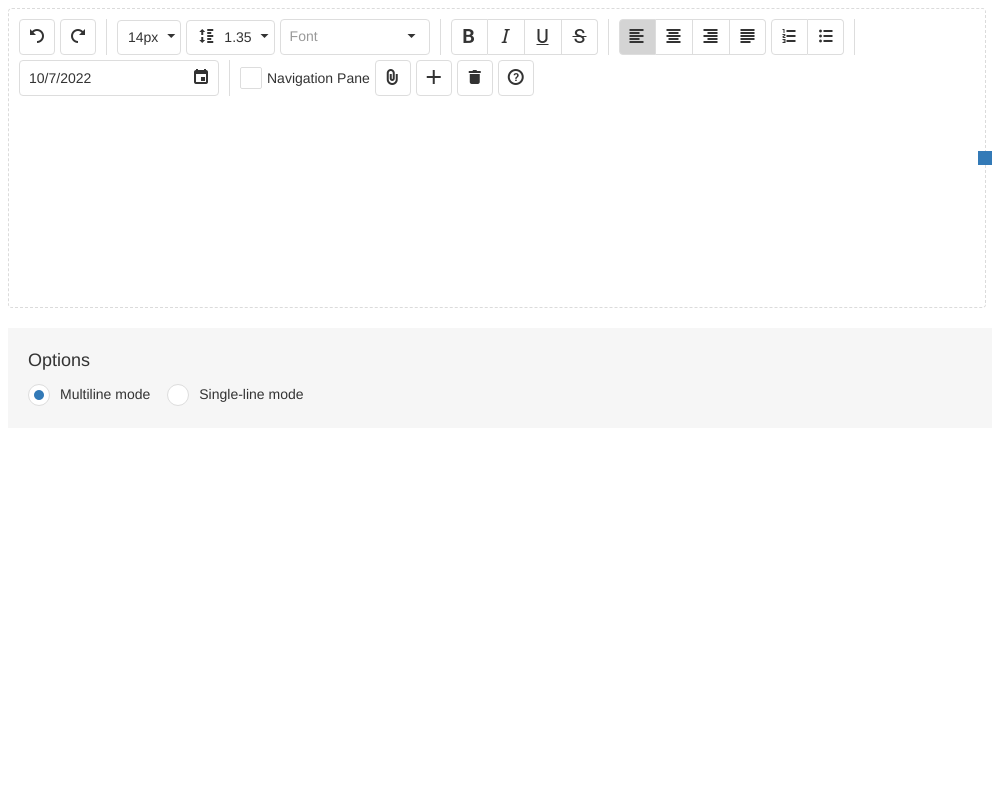
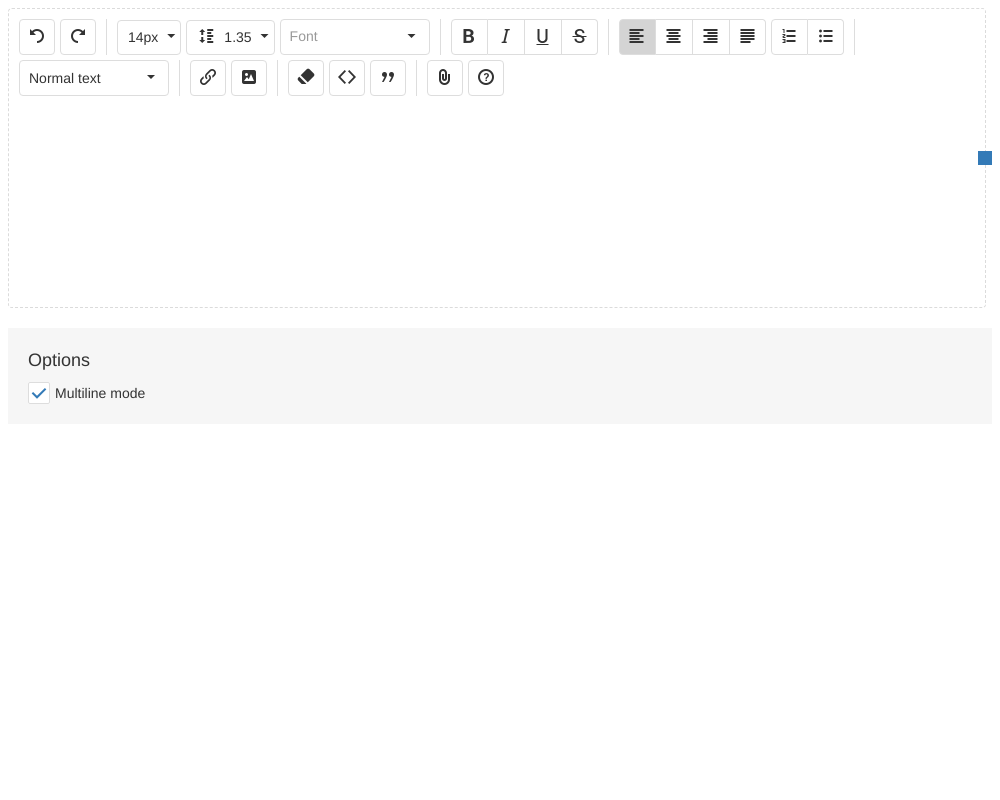
Update tests && Update Screenshots && Fix Angular Demo

diff --git a/testing/widgets/toolbar/Adaptability.test.js b/testing/widgets/toolbar/Adaptability.test.js
@@ -3,7 +3,7 @@ import { createScreenshotsComparer } from 'devextreme-screenshot-comparer';
 import { runManualTest } from '../../../utils/visual-tests/matrix-test-helper';
 
 const RESIZABLE_HANDLE_RIGHT_CLASS = 'dx-resizable-handle-right';
-const RADIO_BUTTON_CLASS = 'dx-radiobutton';
+const CHECKBOX_CLASS = 'dx-checkbox';
 const OPTIONS_CONTAINER_CLASS = 'options-container';
 const TOOLBAR_CLASS = 'dx-toolbar';
 const DROP_DOWN_MENU_BUTTON_CLASS = 'dx-dropdownmenu-button';
@@ -22,7 +22,7 @@ runManualTest('Toolbar', 'Adaptability', ['jQuery', 'React', 'Vue', 'Angular'], 
     await t.drag($(`.${RESIZABLE_HANDLE_RIGHT_CLASS}`), -400, 0);
     await takeScreenshot('toolbar_multiline_mode_minimize.png');
 
-    await t.click($(`.${OPTIONS_CONTAINER_CLASS} .${RADIO_BUTTON_CLASS}`).nth(1));
+    await t.click($(`.${OPTIONS_CONTAINER_CLASS} .${CHECKBOX_CLASS}`).nth(1));
     await takeScreenshot('toolbar_singleline_mode_init.png');
 
     await t.click($(`.${TOOLBAR_CLASS} .${DROP_DOWN_MENU_BUTTON_CLASS}`));

diff --git a/JSDemos/Demos/Toolbar/Adaptability/Angular/app/app.component.html b/JSDemos/Demos/Toolbar/Adaptability/Angular/app/app.component.html
@@ -179,19 +179,6 @@
       </dxi-item>
 
       <dxi-item
-        location="before"
-        locateInMenu="auto"
-        widget="dxButton"
-        showText="inMenu"
-      >
-        <dx-button
-          icon="link"
-          text="Link"
-          (onClick)="onButtonClick('Link')"
-        ></dx-button>
-      </dxi-item>
-
-      <dxi-item
         cssClass="toolbar-separator-container"
         location="before"
         locateInMenu="auto"
